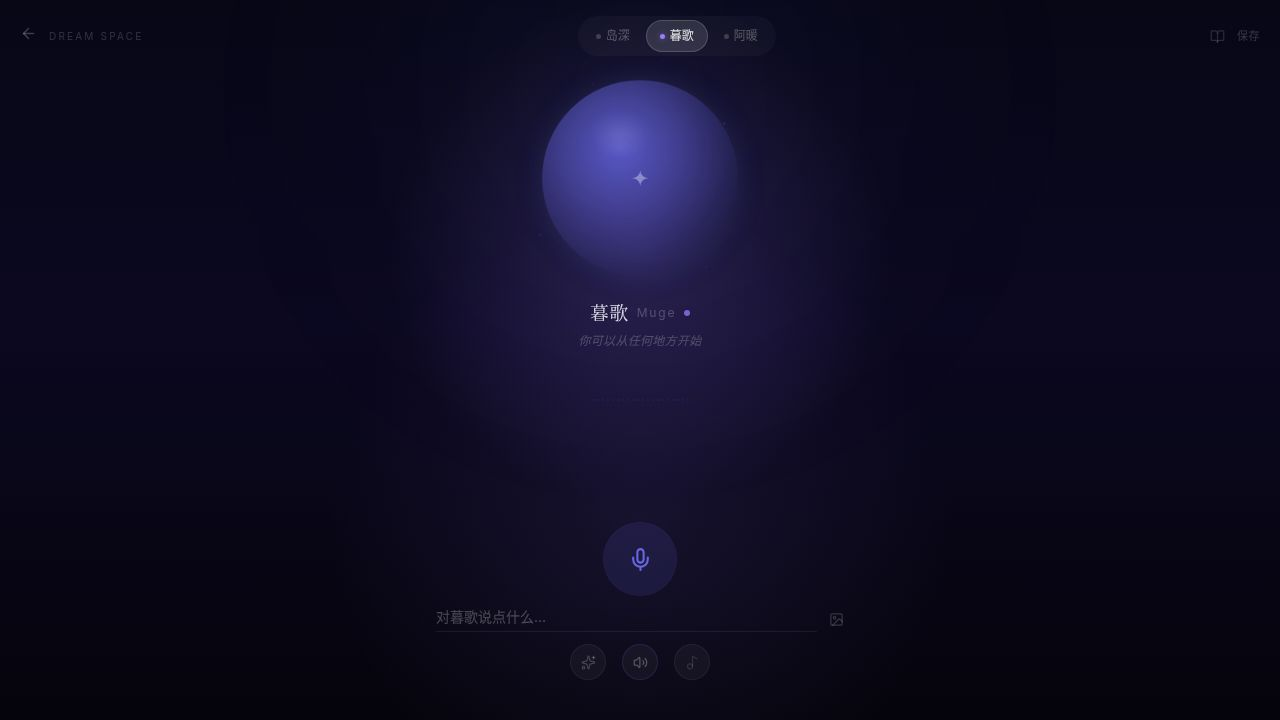
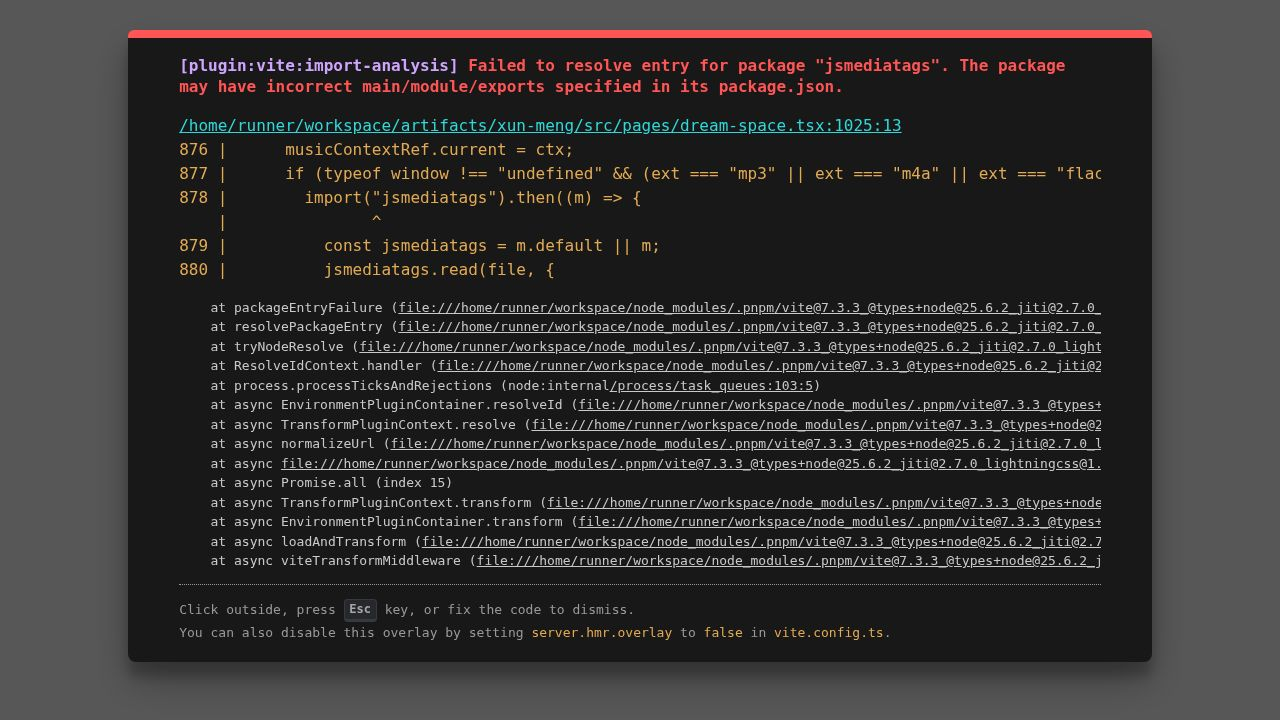
Add music context to dreams and update ambient sounds
Integrate music metadata (title, artist, mood) into the dream journaling experience, update ambient sound options, and enhance AI's awareness of music context.

Replit-Commit-Author: Agent
Replit-Commit-Session-Id: 69ff46f2-990e-4750-afd8-9ba40b1341ae
Replit-Commit-Checkpoint-Type: full_checkpoint
Replit-Commit-Event-Id: 23757f8d-1d82-445a-81d7-752e6e1fa7e4
Replit-Commit-Screenshot-Url: https://storage.googleapis.com/screenshot-production-us-central1/74623d1a-dcbe-417f-b797-d37cfabe7628/69ff46f2-990e-4750-afd8-9ba40b1341ae/JSNdL5F
Replit-Helium-Checkpoint-Created: true

diff --git a/artifacts/xun-meng/src/pages/dream-space.tsx b/artifacts/xun-meng/src/pages/dream-space.tsx
@@ -36,6 +36,16 @@ export interface ChatMessage {
   timestamp: string;
 }
 
+export interface MusicContext {
+  source: "builtin" | "local";
+  title: string;
+  artist: string;
+  fileName: string;
+  type: string;
+  mood: string;
+  isPlaying: boolean;
+}
+
 export interface DreamCharConfig {
   key: CharKey;
   nameMatch: string;
@@ -265,6 +275,8 @@ export default function DreamSpace() {
   const [bgMusicPlaying, setBgMusicPlaying] = useState(false);
   const [bgMusicVolume,  setBgMusicVolume]  = useState(0.3);
   const bgAudioRef          = useRef<HTMLAudioElement | null>(null);
+  const [musicContext, setMusicContext] = useState<MusicContext | null>(null);
+  const musicContextRef = useRef<MusicContext | null>(null);
 
   // ── ElevenLabs TTS state ──────────────────────────────────────────────────
   const [ttsEnabled, setTtsEnabledState] = useState(() => {
@@ -465,7 +477,7 @@ export default function DreamSpace() {
   useEffect(() => {
     const SR: any =
       typeof window !== "undefined"
-        ? (window.SpeechRecognition || (window as any).webkitSpeechRecognition)
+        ? ((window as any).SpeechRecognition || (window as any).webkitSpeechRecognition)
         : null;
     if (!SR) return;
 
@@ -576,7 +588,25 @@ export default function DreamSpace() {
     playMusic(def.music);
   };
   const handleSoundChange = (s: AmbientSoundType) => { setAmbientSound(s); playAmbient(s); };
-  const handleMusicChange = (m: MusicType)         => { setMusic(m); playMusic(m); };
+  const handleMusicChange = (m: MusicType) => {
+    setMusic(m);
+    playMusic(m);
+    if (m === "none") {
+      setMusicContext(null);
+      musicContextRef.current = null;
+    } else {
+      const labels: Record<MusicType, string> = {
+        none: "无", piano: "钢琴微光", fog: "雾蓝氛围",
+        strings: "夜色弦音", "piano-rain": "雨夜钢琴",
+      };
+      const ctx: MusicContext = {
+        source: "builtin", title: labels[m], artist: "巡梦",
+        fileName: "", type: "synth", mood: "", isPlaying: true,
+      };
+      setMusicContext(ctx);
+      musicContextRef.current = ctx;
+    }
+  };
 
   // ── Derived ──────────────────────────────────────────────────────────────
   const charConfig    = activeChar ? getCharConfig(activeChar.name) : DREAM_CHARS[1];
@@ -831,6 +861,7 @@ export default function DreamSpace() {
               history: historyItems,
               userInput: msg || "[图片]",
               imageUrl: imgUrl ?? null,
+              musicContext: musicContextRef.current,
             },
           });
           replyContent = stripCharPrefix(res.reply);
@@ -983,15 +1014,42 @@ export default function DreamSpace() {
     if (bgMusicUrl) URL.revokeObjectURL(bgMusicUrl);
     const url = URL.createObjectURL(file);
     setBgMusicUrl(url);
-    setBgMusicName(file.name.replace(/\.[^.]+$/, ""));
+    const name = file.name.replace(/\.[^.]+$/, "");
+    setBgMusicName(name);
+    const ext = file.name.split('.').pop()?.toLowerCase() ?? "";
+    const ctx: MusicContext = { source: "local", title: name, artist: "", fileName: file.name, type: ext, mood: "", isPlaying: false };
+    setMusicContext(ctx);
+    musicContextRef.current = ctx;
+    // Try read ID3 tags
+    if (ext === "mp3") {
+      import("@/lib/read-id3").then(m => m.readId3Meta(file)).then(meta => {
+        if (meta.title || meta.artist) {
+          const updated: MusicContext = {
+            ...ctx,
+            title: meta.title || ctx.title,
+            artist: meta.artist || ctx.artist,
+          };
+          setMusicContext(updated);
+          musicContextRef.current = updated;
+        }
+      }).catch(() => { /* ignore */ });
+    }
     if (bgAudioRef.current) {
       bgAudioRef.current.src = url;
       bgAudioRef.current.volume = bgMusicVolume;
       bgAudioRef.current.play()
-        .then(() => setBgMusicPlaying(true))
+        .then(() => {
+          setBgMusicPlaying(true);
+          const updated = { ...ctx, isPlaying: true };
+          setMusicContext(updated);
+          musicContextRef.current = updated;
+        })
         .catch(() => {
           toast({ title: "这首音乐暂时无法播放，请换一首。" });
           setBgMusicPlaying(false);
+          const updated = { ...ctx, isPlaying: false };
+          setMusicContext(updated);
+          musicContextRef.current = updated;
         });
     }
     e.target.value = "";
@@ -1002,9 +1060,21 @@ export default function DreamSpace() {
     if (bgMusicPlaying) {
       bgAudioRef.current.pause();
       setBgMusicPlaying(false);
+      if (musicContextRef.current) {
+        const updated = { ...musicContextRef.current, isPlaying: false };
+        setMusicContext(updated);
+        musicContextRef.current = updated;
+      }
     } else {
       bgAudioRef.current.play()
-        .then(() => setBgMusicPlaying(true))
+        .then(() => {
+          setBgMusicPlaying(true);
+          if (musicContextRef.current) {
+            const updated = { ...musicContextRef.current, isPlaying: true };
+            setMusicContext(updated);
+            musicContextRef.current = updated;
+          }
+        })
         .catch(() => toast({ title: "这首音乐暂时无法播放，请换一首。" }));
     }
   };

diff --git a/artifacts/xun-meng/src/lib/read-id3.ts b/artifacts/xun-meng/src/lib/read-id3.ts
@@ -1,0 +1,75 @@
+/**
+ * Minimal inline ID3 tag reader for MP3 files.
+ * Only extracts TIT2 (title) and TPE1 (artist).
+ */
+export async function readId3Meta(file: File): Promise<{ title?: string; artist?: string }> {
+  const buf = await file.arrayBuffer();
+  const d = new DataView(buf);
+  let offset = 0;
+
+  // Check ID3 header
+  const id3 = String.fromCharCode(d.getUint8(0), d.getUint8(1), d.getUint8(2));
+  if (id3 !== "ID3") return {};
+
+  const version = d.getUint8(3);
+  const flags = d.getUint8(5);
+  const size =
+    ((d.getUint8(6) & 0x7f) << 21) |
+    ((d.getUint8(7) & 0x7f) << 14) |
+    ((d.getUint8(8) & 0x7f) << 7) |
+    (d.getUint8(9) & 0x7f);
+
+  offset = 10;
+  const extendedHeader = flags & 0x40;
+  if (extendedHeader) {
+    const extSize =
+      (d.getUint8(offset) << 24) |
+      (d.getUint8(offset + 1) << 16) |
+      (d.getUint8(offset + 2) << 8) |
+      d.getUint8(offset + 3);
+    offset += 4 + extSize;
+  }
+
+  const textDecoder = new TextDecoder();
+  const result: { title?: string; artist?: string } = {};
+
+  while (offset < 10 + size) {
+    const frameId = String.fromCharCode(
+      d.getUint8(offset), d.getUint8(offset + 1),
+      d.getUint8(offset + 2), d.getUint8(offset + 3)
+    );
+    if (frameId === "\x00\x00\x00\x00") break;
+
+    const frameSize =
+      version >= 3
+        ? (d.getUint8(offset + 4) << 24) |
+          (d.getUint8(offset + 5) << 16) |
+          (d.getUint8(offset + 6) << 8) |
+          d.getUint8(offset + 7)
+        : ((d.getUint8(offset + 4) & 0x7f) << 21) |
+          ((d.getUint8(offset + 5) & 0x7f) << 14) |
+          ((d.getUint8(offset + 6) & 0x7f) << 7) |
+          (d.getUint8(offset + 7) & 0x7f);
+
+    if (frameId === "TIT2" || frameId === "TPE1") {
+      const encoding = d.getUint8(offset + 10);
+      const raw = new Uint8Array(buf, offset + 11, frameSize - 1);
+      let text = "";
+      if (encoding === 0) {
+        text = textDecoder.decode(raw);
+      } else if (encoding === 1 || encoding === 2) {
+        text = new TextDecoder("utf-16").decode(raw);
+      } else if (encoding === 3) {
+        text = new TextDecoder("utf-8").decode(raw);
+      }
+      // Strip BOM if present
+      text = text.replace(/^\uFEFF/, "").replace(/\0/g, "").trim();
+      if (frameId === "TIT2") result.title = text;
+      if (frameId === "TPE1") result.artist = text;
+    }
+
+    offset += 10 + frameSize;
+  }
+
+  return result;
+}

diff --git a/artifacts/xun-meng/src/hooks/use-ambient-sound.ts b/artifacts/xun-meng/src/hooks/use-ambient-sound.ts
@@ -1,6 +1,6 @@
 import { useRef, useCallback } from "react";
 
-export type AmbientSoundType = "none" | "rain" | "night" | "fire";
+export type AmbientSoundType = "none" | "rain" | "night" | "ocean";
 
 function buildRain(ctx: AudioContext, gain: GainNode) {
   // Two layers of filtered noise for rain texture
@@ -67,18 +67,17 @@ function buildNight(ctx: AudioContext, gain: GainNode) {
   return [src];
 }
 
-function buildFire(ctx: AudioContext, gain: GainNode) {
-  // Crackling fire: amplitude-modulated low-pass noise
+function buildOcean(ctx: AudioContext, gain: GainNode) {
+  // Deep sea tides: slow pink noise swell
   const bufSize = ctx.sampleRate * 4;
   const buf = ctx.createBuffer(1, bufSize, ctx.sampleRate);
   const d = buf.getChannelData(0);
 
-  // Brownian / pink-ish noise for warmth
   let last = 0;
   for (let i = 0; i < bufSize; i++) {
     const white = Math.random() * 2 - 1;
-    last = (last + 0.08 * white) / 1.08;
-    d[i] = last * 18; // amplify
+    last = (last + 0.02 * white) / 1.02;
+    d[i] = last * 0.8;
   }
 
   const src = ctx.createBufferSource();
@@ -87,18 +86,18 @@ function buildFire(ctx: AudioContext, gain: GainNode) {
 
   const lp = ctx.createBiquadFilter();
   lp.type = "lowpass";
-  lp.frequency.value = 600;
+  lp.frequency.value = 280;
 
-  // LFO for crackling flicker
   const lfo = ctx.createOscillator();
   const lfoGain = ctx.createGain();
-  lfo.frequency.value = 3.5;
-  lfoGain.gain.value = 0.3;
+  lfo.frequency.value = 0.12;
+  lfoGain.gain.value = 0.5;
   lfo.connect(lfoGain);
+  lfoGain.connect(gain.gain);
+  lfo.start();
 
   src.connect(lp);
   lp.connect(gain);
-  lfo.start();
   src.start();
   return [src, lfo as unknown as AudioBufferSourceNode];
 }
@@ -136,13 +135,13 @@ export function useAmbientSound() {
     gainRef.current = gain;
 
     // Fade in
-    const targetVol = type === "rain" ? 0.07 : type === "night" ? 0.06 : 0.05;
+    const targetVol = 0.05;
     gain.gain.setTargetAtTime(targetVol, ctx.currentTime, 0.8);
 
     let sources: (AudioBufferSourceNode | OscillatorNode)[];
     if (type === "rain")  sources = buildRain(ctx, gain);
     else if (type === "night") sources = buildNight(ctx, gain);
-    else sources = buildFire(ctx, gain);
+    else sources = buildOcean(ctx, gain);
 
     sourcesRef.current = sources;
   }, [stop]);

diff --git a/artifacts/api-server/src/routes/ai.ts b/artifacts/api-server/src/routes/ai.ts
@@ -495,7 +495,7 @@ router.post("/ai/dream-chat", async (req, res): Promise<void> => {
 
   const apiKey = process.env.OPENAI_API_KEY;
   const model  = process.env.AI_MODEL_NAME ?? "gpt-4o-mini";
-  const { activeCharacter, history, userInput, imageUrl } = parsed.data;
+  const { activeCharacter, history, userInput, imageUrl, musicContext } = parsed.data;
 
   const sysPrompt = DREAM_CHAR_PROMPTS[activeCharacter] ?? DREAM_CHAR_PROMPTS.anuan;
   const mockPool  = DREAM_CHAT_MOCK[activeCharacter]    ?? DREAM_CHAT_MOCK.anuan;
@@ -519,8 +519,13 @@ router.post("/ai/dream-chat", async (req, res): Promise<void> => {
       return parts;
     };
 
+    // Music context — only inject when music is actively playing
+    const musicNote = musicContext?.isPlaying
+      ? `当前正在播放的背景音乐：${musicContext.title}${musicContext.artist ? ` — ${musicContext.artist}` : ""}${musicContext.mood ? ` (气氛：${musicContext.mood})` : ""}。可以自然地将音乐气氛融入回复，但不要每次都提及。不要声称自己在听这首歌的声音。`
+      : "";
+
     const oaiMessages: OAIMsg[] = [
-      { role: "system", content: sysPrompt },
+      { role: "system", content: sysPrompt + musicNote },
       ...history.map(item => ({
         role: item.role as "user" | "assistant",
         content: item.role === "user"

diff --git a/artifacts/xun-meng/src/pages/new-dream.tsx b/artifacts/xun-meng/src/pages/new-dream.tsx
@@ -50,7 +50,7 @@ export default function NewDream() {
     query: { queryKey: getGetActiveCharacterQueryKey() }
   });
 
-  const SpeechRecognition = window.SpeechRecognition || (window as any).webkitSpeechRecognition;
+  const SpeechRecognition = (window as any).SpeechRecognition || (window as any).webkitSpeechRecognition;
   const recognition = useRef<any>(null);
 
   const form = useForm<z.infer<typeof formSchema>>({
@@ -132,9 +132,7 @@ export default function NewDream() {
       if (res.summary) {
         form.setValue("content", res.summary); 
       }
-      if (!form.getValues("title") && res.title) {
-         // Assuming organize might return a title if missing, or we just keep it
-      }
+      // res.title is not part of AiOrganizeResult — only summary is used above
     } catch (error) {
       toast({ title: "分析失败", description: String(error), variant: "destructive" });
     }

diff --git a/artifacts/xun-meng/src/components/atmosphere-panel.tsx b/artifacts/xun-meng/src/components/atmosphere-panel.tsx
@@ -27,7 +27,7 @@ const SOUNDS: { id: AmbientSoundType; icon: string; label: string }[] = [
   { id: "none",  icon: "—", label: "无" },
   { id: "rain",  icon: "⛆", label: "雨声" },
   { id: "night", icon: "♩", label: "夜色" },
-  { id: "fire",  icon: "⬡", label: "壁炉" },
+  { id: "ocean",  icon: "~", label: "深海" },
 ];
 
 const MUSIC: { id: MusicType; icon: string; label: string }[] = [

diff --git a/artifacts/xun-meng/src/pages/character-new.tsx b/artifacts/xun-meng/src/pages/character-new.tsx
@@ -21,7 +21,7 @@ const formSchema = z.object({
   relationship: z.string(),
   language: z.enum(["zh", "en"]),
   voiceType: z.string(),
-  systemPrompt: z.string().optional(),
+  systemPrompt: z.string().optional().default(""),
 });
 
 export default function CharacterNew() {

diff --git a/artifacts/xun-meng/src/pages/dream-archive-list.tsx b/artifacts/xun-meng/src/pages/dream-archive-list.tsx
@@ -356,7 +356,7 @@ export default function DreamArchiveList() {
             transition={{ duration: 0.45, ease: [0.23, 1, 0.32, 1] }}
           >
             <ChromaGrid
-              items={chromaItems}
+              items={chromaItems as any}
               onItemClick={(item: { dreamId: string }) => setLocation(`/archive/${item.dreamId}`)}
               radius={300}
             />

diff --git a/artifacts/xun-meng/src/pages/dream-archive.tsx b/artifacts/xun-meng/src/pages/dream-archive.tsx
@@ -182,7 +182,7 @@ export default function DreamCorridor() {
               transition={{ delay: 0.2, duration: 0.7 }}
             >
               <CircularGallery
-                items={galleryItems}
+                items={galleryItems as any}
                 bend={0.30}
                 borderRadius={0.048}
                 scrollEase={0.038}